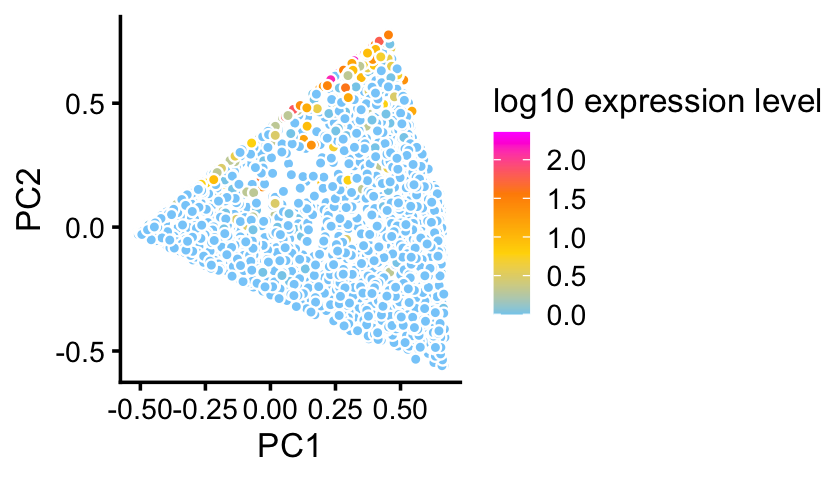
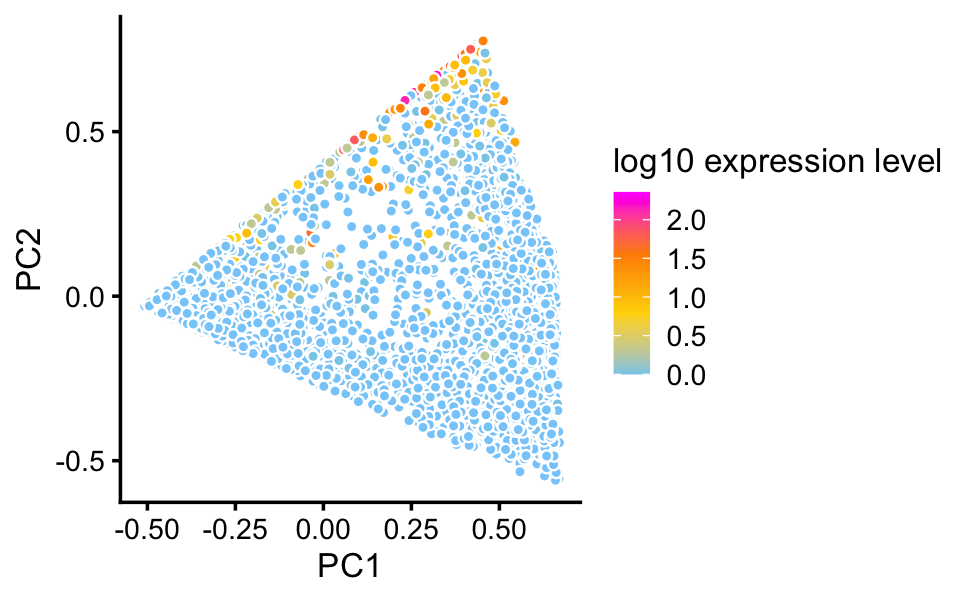
Added PCA plots showing continuous variation in club cells.

Changed region(s): [[0.0, 0.0312, 0.9905, 0.9688]]

diff --git a/docs/clusters_droplet.html b/docs/clusters_droplet.html
@@ -414,16 +414,16 @@ This reproducible <a href="http://rmarkdown.rstudio.com">R Markdown</a> analysis
 <div class="panel panel-default">
 <div class="panel-heading">
 <p class="panel-title">
-<a data-toggle="collapse" data-parent="#workflowr-checks" href="#strongRepositoryversionstrongahrefhttpsgithubcomstephenslabsinglecelltopicstree69d1f0acfefba68a060ac2cf92be177a66c3e5e2targetblank69d1f0aa"> <span class="glyphicon glyphicon-ok text-success" aria-hidden="true"></span> <strong>Repository version:</strong> <a href="https://github.com/stephenslab/single-cell-topics/tree/69d1f0acfefba68a060ac2cf92be177a66c3e5e2" target="_blank">69d1f0a</a> </a>
+<a data-toggle="collapse" data-parent="#workflowr-checks" href="#strongRepositoryversionstrongahrefhttpsgithubcomstephenslabsinglecelltopicstree605b540a24de563c843aac3d235d28ec1d14eb49targetblank605b540a"> <span class="glyphicon glyphicon-ok text-success" aria-hidden="true"></span> <strong>Repository version:</strong> <a href="https://github.com/stephenslab/single-cell-topics/tree/605b540a24de563c843aac3d235d28ec1d14eb49" target="_blank">605b540</a> </a>
 </p>
 </div>
[2 lines of base64/hex data omitted]
 <div class="panel-body">
 <p>
 Great! You are using Git for version control. Tracking code development and connecting the code version to the results is critical for reproducibility.
 </p>
 <p>
-The results in this page were generated with repository version <a href="https://github.com/stephenslab/single-cell-topics/tree/69d1f0acfefba68a060ac2cf92be177a66c3e5e2" target="_blank">69d1f0a</a>. See the <em>Past versions</em> tab to see a history of the changes made to the R Markdown and HTML files.
+The results in this page were generated with repository version <a href="https://github.com/stephenslab/single-cell-topics/tree/605b540a24de563c843aac3d235d28ec1d14eb49" target="_blank">605b540</a>. See the <em>Past versions</em> tab to see a history of the changes made to the R Markdown and HTML files.
 </p>
 <p>
 Note that you need to be careful to ensure that all relevant files for the analysis have been committed to Git prior to generating the results (you can use <code>wflow_publish</code> or <code>wflow_git_commit</code>). workflowr only checks the R Markdown file, but you know if there are other scripts or data files that it depends on. Below is the status of the Git repository when the results were generated:
@@ -442,6 +442,9 @@ Ignored files:
     Ignored:    output/pbmc-purified/rds/
     Ignored:    output/pulseseq/fits-pulseseq.RData
     Ignored:    output/pulseseq/rds/
+
+Untracked files:
+    Untracked:  analysis/clustering-droplet.rds
 
 </code></pre>
 <p>
@@ -480,6 +483,40 @@ Message
 </tr>
 </thead>
 <tbody>
+<tr>
+<td>
+Rmd
+</td>
+<td>
+<a href="https://github.com/stephenslab/single-cell-topics/blob/605b540a24de563c843aac3d235d28ec1d14eb49/analysis/clusters_droplet.Rmd" target="_blank">605b540</a>
+</td>
+<td>
+Peter Carbonetto
+</td>
+<td>
+2020-09-21
+</td>
+<td>
+workflowr::wflow_publish(“clusters_droplet.Rmd”)
+</td>
+</tr>
+<tr>
+<td>
+html
+</td>
+<td>
+<a href="https://rawcdn.githack.com/stephenslab/single-cell-topics/db6135c17587e1bb862ac005452ee934662b0c7b/docs/clusters_droplet.html" target="_blank">db6135c</a>
+</td>
+<td>
+Peter Carbonetto
+</td>
+<td>
+2020-09-21
+</td>
+<td>
+Added B+C cluster to clustering of droplet data, and added plot
+</td>
+</tr>
 <tr>
 <td>
 Rmd
@@ -721,7 +758,6 @@ source(&quot;../code/plots.R&quot;)</code></pre>
 <pre class="r"><code>load(&quot;../data/droplet.RData&quot;)</code></pre>
 <p>Load the <span class="math inline">\(k = 7\)</span> Poisson NMF model fit.</p>
 <pre class="r"><code>fit &lt;- readRDS(&quot;../output/droplet/rds/fit-droplet-scd-ex-k=7.rds&quot;)$fit</code></pre>
-<p><em>Add text here.</em></p>
 </div>
 <div id="identify-clusters-from-principal-components" class="section level2">
 <h2>Identify clusters from principal components</h2>
@@ -916,6 +952,17 @@ Date
 <tbody>
 <tr>
 <td>
+<a href="https://github.com/stephenslab/single-cell-topics/blob/db6135c17587e1bb862ac005452ee934662b0c7b/docs/figure/clusters_droplet.Rmd/clustering-5-1.png" target="_blank">db6135c</a>
+</td>
+<td>
+Peter Carbonetto
+</td>
+<td>
+2020-09-21
+</td>
+</tr>
+<tr>
+<td>
 <a href="https://github.com/stephenslab/single-cell-topics/blob/b5e1a7e1b9f1357e79255b0d1fe780e995036c03/docs/figure/clusters_droplet.Rmd/clustering-5-1.png" target="_blank">b5e1a7e</a>
 </td>
 <td>
@@ -954,7 +1001,7 @@ p10 &lt;- ggplot(pdat,aes(x = PC1,y = PC2,fill = Krt13)) +
   theme_cowplot(font_size = 10) +
   labs(fill = &quot;log10 expression level&quot;)
 print(p10)</code></pre>
-<p><img src="figure/clusters_droplet.Rmd/clustering-6-1.png" width="420" style="display: block; margin: auto;" /></p>
+<p><img src="figure/clusters_droplet.Rmd/clustering-6-1.png" width="480" style="display: block; margin: auto;" /></p>
 <p>
 <button type="button" class="btn btn-default btn-xs btn-workflowr btn-workflowr-fig" data-toggle="collapse" data-target="#fig-clustering-6-1">
 Past versions of clustering-6-1.png
@@ -977,6 +1024,17 @@ Date
 </tr>
 </thead>
 <tbody>
+<tr>
+<td>
+<a href="https://github.com/stephenslab/single-cell-topics/blob/db6135c17587e1bb862ac005452ee934662b0c7b/docs/figure/clusters_droplet.Rmd/clustering-6-1.png" target="_blank">db6135c</a>
+</td>
+<td>
+Peter Carbonetto
+</td>
+<td>
+2020-09-21
+</td>
+</tr>
 <tr>
 <td>
 <a href="https://github.com/stephenslab/single-cell-topics/blob/417202458ee4055297b95a2ea3994a867c13866f/docs/figure/clusters_droplet.Rmd/clustering-6-1.png" target="_blank">4172024</a>
@@ -1029,6 +1087,43 @@ p12 &lt;- labeled_pca_plot(fit,3:4,x,cluster_colors,font_size = 8)
 p13 &lt;- labeled_pca_plot(fit,5:6,x,cluster_colors,font_size = 8)
 plot_grid(p11,p12,p13,nrow = 1,ncol = 3)</code></pre>
 <p><img src="figure/clusters_droplet.Rmd/clustering-8-1.png" width="960" style="display: block; margin: auto;" /></p>
+<p>
+<button type="button" class="btn btn-default btn-xs btn-workflowr btn-workflowr-fig" data-toggle="collapse" data-target="#fig-clustering-8-1">
+Past versions of clustering-8-1.png
+</button>
+</p>
+<div id="fig-clustering-8-1" class="collapse">
+<div class="table-responsive">
+<table class="table table-condensed table-hover">
+<thead>
+<tr>
+<th>
+Version
+</th>
+<th>
+Author
+</th>
+<th>
+Date
+</th>
+</tr>
+</thead>
+<tbody>
+<tr>
+<td>
+<a href="https://github.com/stephenslab/single-cell-topics/blob/db6135c17587e1bb862ac005452ee934662b0c7b/docs/figure/clusters_droplet.Rmd/clustering-8-1.png" target="_blank">db6135c</a>
+</td>
+<td>
+Peter Carbonetto
+</td>
+<td>
+2020-09-21
+</td>
+</tr>
+</tbody>
+</table>
+</div>
+</div>
 <p>The clusters identified here correspond well to the Montoro <em>et al</em> (2018) clustering, with some exceptions (e.g., we do not identify an ionocytes cluster, and the neuroendocrine and tuft cells are included in the same cluster).</p>
 <pre class="r"><code>with(samples,table(tissue,cluster))
 #                 cluster
@@ -1087,6 +1182,17 @@ Date
 <tbody>
 <tr>
 <td>
+<a href="https://github.com/stephenslab/single-cell-topics/blob/db6135c17587e1bb862ac005452ee934662b0c7b/docs/figure/clusters_droplet.Rmd/structure-plot-1.png" target="_blank">db6135c</a>
+</td>
+<td>
+Peter Carbonetto
+</td>
+<td>
+2020-09-21
+</td>
+</tr>
+<tr>
+<td>
 <a href="https://github.com/stephenslab/single-cell-topics/blob/b5e1a7e1b9f1357e79255b0d1fe780e995036c03/docs/figure/clusters_droplet.Rmd/structure-plot-1.png" target="_blank">b5e1a7e</a>
 </td>
 <td>
@@ -1111,8 +1217,13 @@ Peter Carbonetto
 </table>
 </div>
 </div>
-<p>TO DO: Add more notes about the structure of these data based on the PCA plots and the structure plot.</p>
-<p>TO DO: Show PCA plots suggesting additional hetergeneity in C cluster.</p>
+<p>Based on this structure plot, and the above results, we roughly subdivide the droplet data into two: (1) the Cil, T+N and G clusters that give rise to well-separated clusters, and (2) the B, C, B+C and H subsets that contain interesting substructure but much less distinct clustering. Therefore,the cluster labels B, C, B+C and H are useful as a guide but should be taken with a grain of salt as the boundaries between these clusters are somewhat arbitrary.</p>
+<p>Note the distribution of the topics in cluster C that there is further substantial heterogeneity in these cells beyond what can be captured by hard clustering. In particular, there is additional continuous variation in gene expression primarily captured by topics 5 and 7:</p>
+<pre class="r"><code>rows &lt;- which(is.element(x,c(&quot;B&quot;,&quot;C&quot;,&quot;H&quot;,&quot;B+C&quot;)))
+fit2 &lt;- select(poisson2multinom(fit),loadings = rows)
+p15  &lt;- pca_plot(fit2,pcs = 2:3,k = c(4,5,7))
+print(p15)</code></pre>
+<p><img src="figure/clusters_droplet.Rmd/pca-plot-1.png" width="720" style="display: block; margin: auto;" /></p>
 </div>
 <div id="save-results" class="section level2">
 <h2>Save results</h2>
